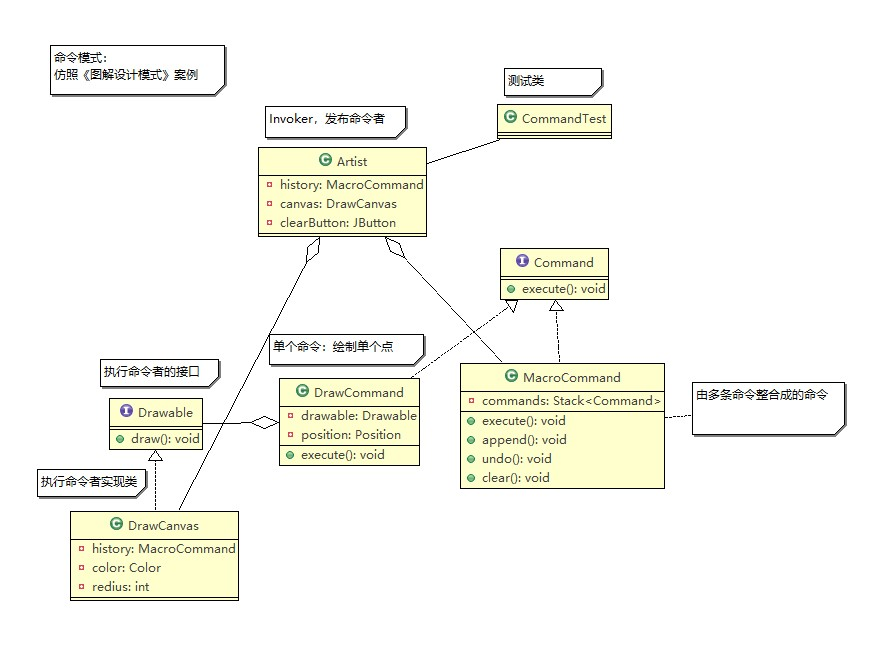
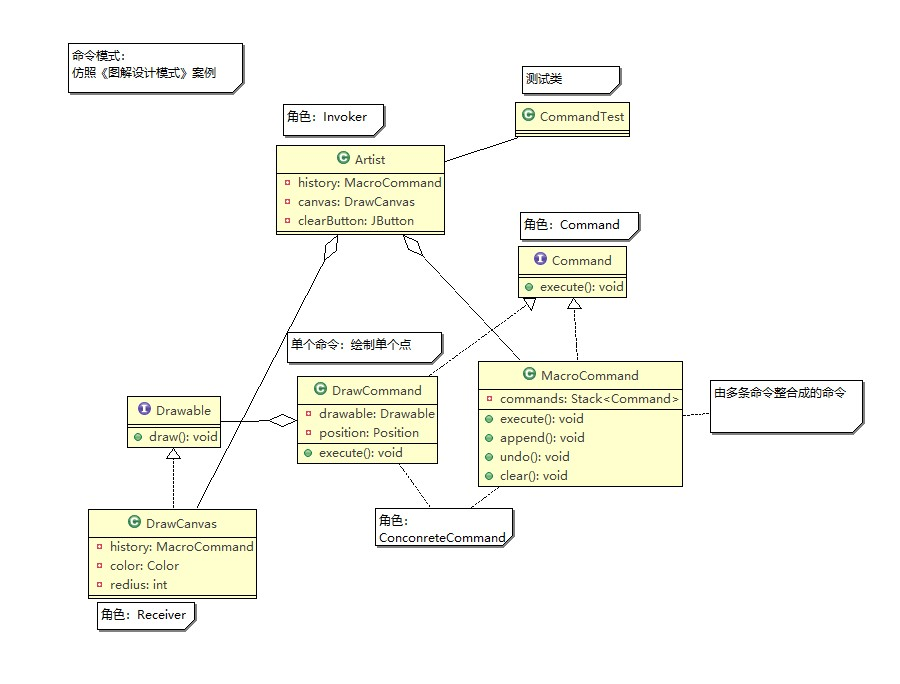
Command Pattern -2

diff --git a/15_Command/src/com/pattern/command/draw/DrawCanvas02.java b/15_Command/src/com/pattern/command/draw/DrawCanvas02.java
@@ -1,0 +1,44 @@
+package com.pattern.command.draw;
+
+import com.pattern.command.commands.MacroCommand;
+
+import java.awt.*;
+
+//执行命令的实现类，画绿色
+public class DrawCanvas02 extends Canvas implements Drawable{
+
+    //命令历史记录
+    private MacroCommand history;
+    //颜色
+    private Color color = Color.green;
+    //半径
+    private int radius = 7;
+
+    public DrawCanvas02() {
+
+    }
+
+    //构造函数，初始历史命令和化界面的尺寸
+    public DrawCanvas02(int width, int height, MacroCommand history) {
+        this.history = history;
+        setSize(width, height);
+        setBackground(Color.white);
+    }
+
+    //全部重新绘制
+    @Override
+    public void paint(Graphics g) {
+        history.execute();
+    }
+
+    //绘制
+    @Override
+    public void draw(int x,int y) {
+        Graphics g = getGraphics();
+        g.setColor(color);
+        g.fillOval(x - radius,y - radius, radius * 2, radius * 2);
+
+    }
+
+
+}

diff --git a/15_Command/src/com/pattern/command/CommandTest.java b/15_Command/src/com/pattern/command/CommandTest.java
@@ -8,12 +8,13 @@ import com.pattern.command.invoker.Artist;
 * 测试类
 * 命令模式范例参考《图解设计模式》，用到Java AWT相关知识。
 * 重点学习命令模式的用法，AWT相关的后面再了解。
-* 可以再添加Command的其他实现类，并添加对应的Drawable接口的实现类，即可实现别的命令的执行，可写个类复制DrawCanvas里的draw(..)再改。
+* 可以再添加Command的其他实现类，并添加对应的Drawable接口的实现类。
+* 例，添加DrawCommand02表示另一个命令，对应的执行者是DrawCanvas02(扩展还未做完)
 * */
 public class CommandTest {
 
     public static void main(String[] args) {
-        MacroCommand history = new MacroCommand();
+
         new Artist("Command Pattern Demo");
     }
 }

diff --git a/15_Command/src/com/pattern/command/commands/DrawCommand02.java b/15_Command/src/com/pattern/command/commands/DrawCommand02.java
@@ -1,0 +1,26 @@
+package com.pattern.command.commands;
+
+import com.pattern.command.draw.Drawable;
+
+import java.awt.*;
+
+public class DrawCommand02 implements Command{
+    //这里聚合执行具体绘制命令操作的对象
+    protected Drawable drawable;
+    //Java AWT的类
+    private Point position;
+
+    public DrawCommand02() {
+    }
+
+    public DrawCommand02(Drawable drawable, Point position) {
+        this.drawable = drawable;
+        this.position = position;
+    }
+
+    //执行绘制命令
+    @Override
+    public void execute() {
+        drawable.draw(position.x,position.y);
+    }
+}

diff --git a/15_Command/src/com/pattern/command/commands/MacroCommand.java b/15_Command/src/com/pattern/command/commands/MacroCommand.java
@@ -10,6 +10,7 @@ import java.util.Stack;
 public class MacroCommand implements Command {
 
     //用栈表示多个命令的集合，不用集合表示是因为用栈方便撤销上一条命令。
+    //这里用到了组合模式(Composite Pattern)来实现操作
     private Stack<Command> commands = new Stack<>();
 
     @Override
